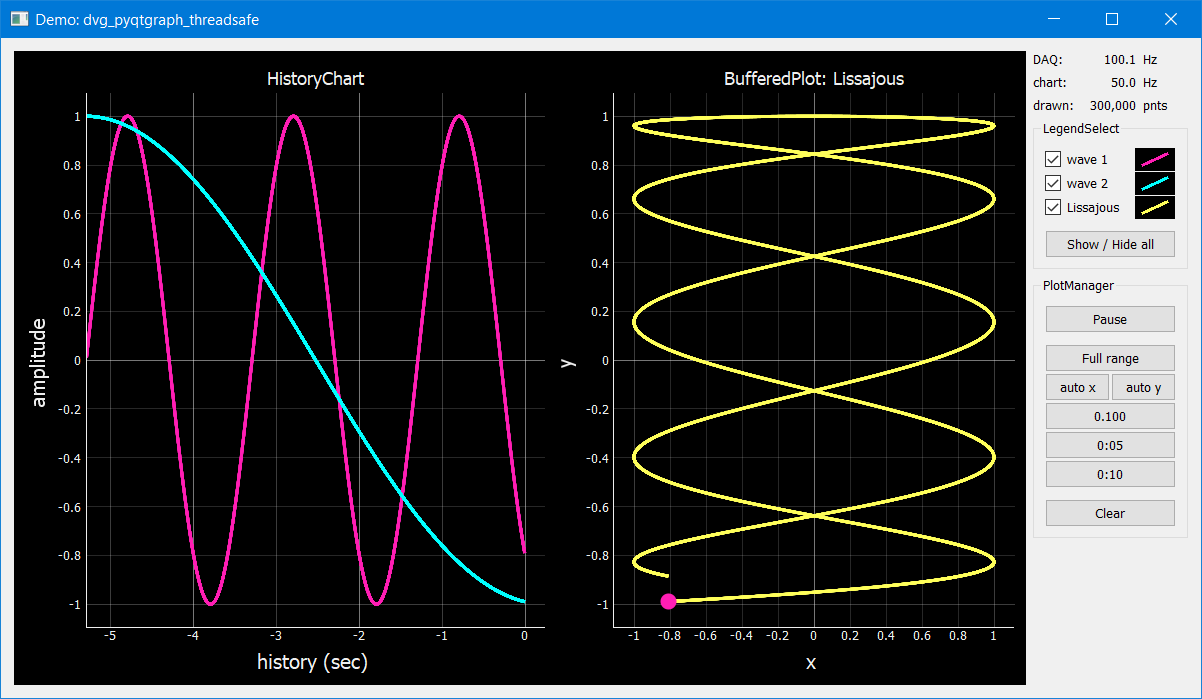
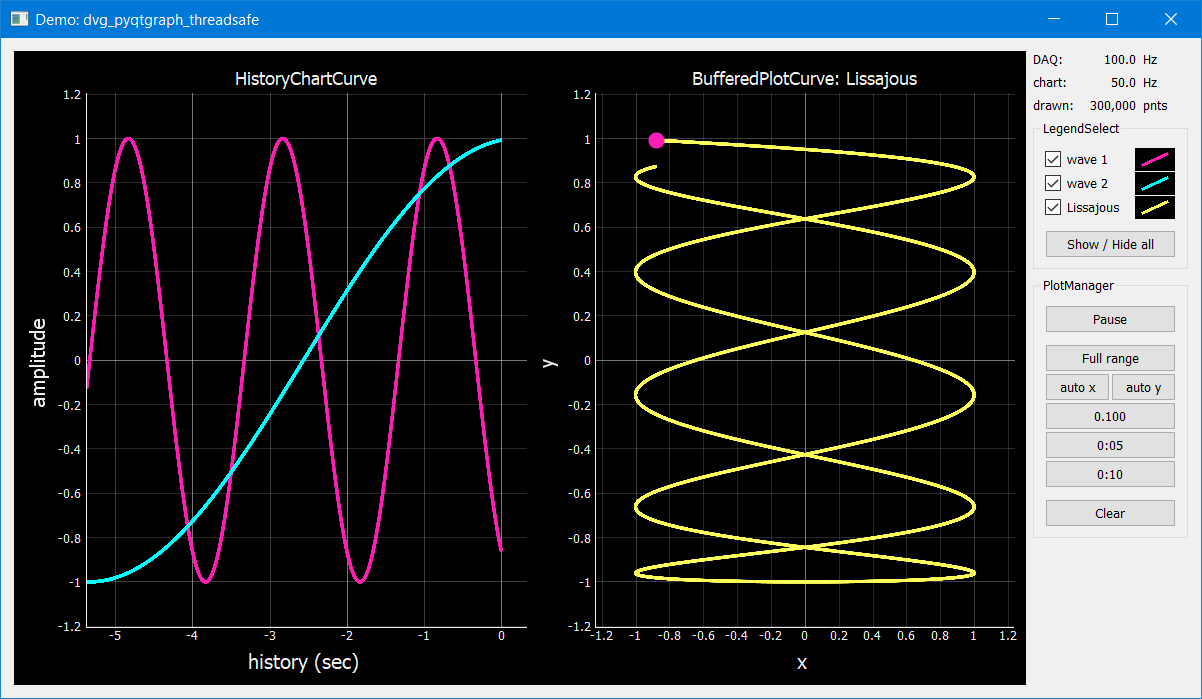
PyPi v3.0

Changed region(s): [[0.0308, 0.0901, 0.8311, 0.9614], [0.1847, 0.9013, 0.3078, 0.9614]]

diff --git a/demos/demo_pyqtgraph_threadsafe.py b/demos/demo_pyqtgraph_threadsafe.py
@@ -66,7 +66,7 @@ class MainWindow(QtWid.QWidget):
         self.plot_1 = self.gw.addPlot()
         self.plot_1.setClipToView(True)
         self.plot_1.showGrid(x=1, y=1)
-        self.plot_1.setTitle("HistoryChart")
+        self.plot_1.setTitle("HistoryChartCurve")
         self.plot_1.setLabel("bottom", text="history (sec)", **p)
         self.plot_1.setLabel("left", text="amplitude", **p)
         self.plot_1.setRange(
@@ -78,7 +78,7 @@ class MainWindow(QtWid.QWidget):
         self.plot_2 = self.gw.addPlot()
         # self.plot_2.setClipToView(True)  # Note: Do not enable clip for a Lissajous. Clip only works well on uniformly monotic x-data.
         self.plot_2.showGrid(x=1, y=1)
-        self.plot_2.setTitle("BufferedPlot: Lissajous")
+        self.plot_2.setTitle("BufferedPlotCurve: Lissajous")
         self.plot_2.setLabel("bottom", text="x", **p)
         self.plot_2.setLabel("left", text="y", **p)
         self.plot_2.setRange(
